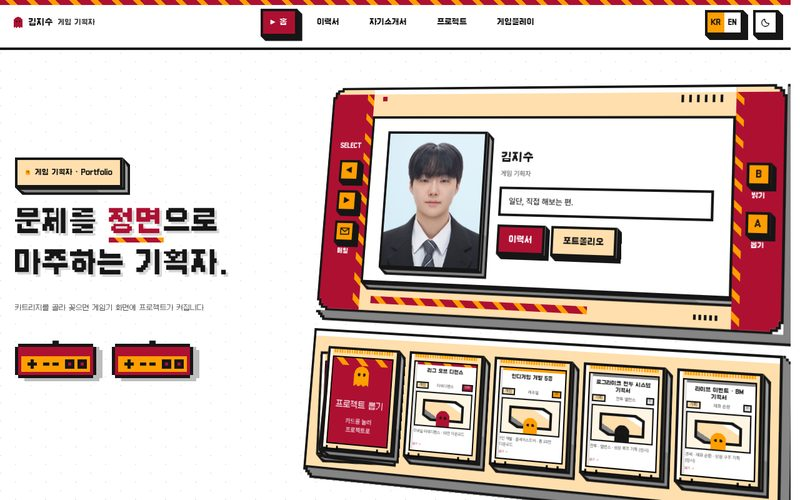
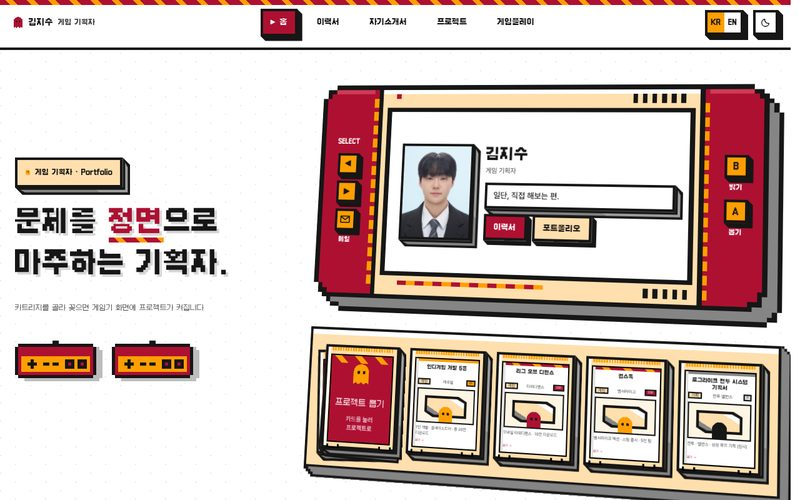
② 도트 · ⑨ 크라프트 · ⑩ 스테이지 게임기를 SVG 그림 한 장으로 다시 그림
"그림이 깨져 있고 조잡하다 · 뚱하다 · 모서리 외곽선이 끊긴다"는 평에 따라:
- 몸통을 상자 조각(셸 · 손잡이 · 화면 테 · 두께 조각) 대신 SVG 그림 한 장으로(assets/js/themes/fc-body.js).
  도트 두 안은 10단위 칸 격자에 칠한 뒤 외곽선을 '몸통 ∪ 두께' 실루엣 가장자리로 계산 → 계단 모서리에서도 선이 끊기지 않음.
  크라프트는 2색 평면 벡터(둥근 몸통 · 진홍 손잡이 면 · 진홍 화면 테).
- 비율을 1000×500 으로 날씬하게, 기울기를 조금 줄임(rotateX 5 · rotateY -9 · rotateZ 2).
- 손잡이 · 화면 자리는 판(.fcs-rig)을 크기 기준(container)으로 cqw 에 맞춰 그림과 정확히 겹침,
  화면 속 내용 · 꽂은 뒤 개요 화면도 cqw 로 줄여 액정 밖으로 넘치지 않게.
- 900px 미만은 기존 세로 휴대기 그대로.
6개 페이지 × 라이트/다크 × 3폭 오류·넘침 없음, 카트리지 꽂기 → 개요 정상.

Claude-Session: https://claude.ai/code/session_01FvKYnfXZMVorzgeM1iQfv5

diff --git a/assets/js/themes/fc-body.js b/assets/js/themes/fc-body.js
@@ -1,0 +1,157 @@
+/* ============================================================================
+   fc-body.js — 기울인 구도 시안의 게임기 '그림' (도트 · 크라프트 · 스테이지 안이 함께 씀)
+   ----------------------------------------------------------------------------
+   예전에는 게임기 몸통을 상자 여러 개(셸 · 손잡이 · 화면 테 · 두께 조각)로 쌓아 그렸는데,
+   판을 기울이면 조각마다 계단 모서리가 따로 틀어져 깨져 보였습니다. 이제 몸통은 SVG 그림 한 장
+   (viewBox 1000 × 500)이고, 버튼 · 화면 속 내용 · 꽂기 연출(각 안의 JS)은 그 위에 그대로 얹힙니다.
+     · 그림은 .hero.fc-console 맨 앞에 붙고(aria-hidden, 클릭 안 받음), 900px 이상에서만 보입니다
+       (좁은 화면은 각 안의 세로 휴대기 CSS 그대로).
+     · 손잡이 · 화면 자리는 각 안의 CSS 가 같은 숫자(cqw)로 맞춥니다 — 그림 1000 단위 = 판 폭 100cqw.
+       크라프트: 손잡이 0–130 · 870–1000, 화면 166–834 × 56–444
+       도트·스테이지: 몸통 0–970 × 0–470(+ 오른쪽·아래 두께), 손잡이 0–130 · 840–970, 화면 160–810 × 60–410
+   SKINS 에 든 시안일 때만 동작하고, [data-slot="main"] 이 다시 그려지면 다시 붙습니다.
+   ========================================================================== */
+(function () {
+  'use strict';
+  if (window.__portfolioFcBody) return;
+  window.__portfolioFcBody = true;
+  var NS = 'http://www.w3.org/2000/svg';
+
+  function rect(x, y, w, h, c, extra) {
+    return '<rect x="' + x + '" y="' + y + '" width="' + w + '" height="' + h + '" fill="' + c + '"' + (extra || '') + '/>';
+  }
+  /* 계단 모서리 사각형 — prof = 위에서부터 한 줄씩 들여 쓸 칸 수(칸 = u) */
+  function steps(x, y, w, h, u, prof, c) {
+    var out = '', n = prof.length, i, d;
+    for (i = 0; i < n; i++) {
+      d = prof[i] * u;
+      out += rect(x + d, y + i * u, w - 2 * d, u, c) + rect(x + d, y + h - (i + 1) * u, w - 2 * d, u, c);
+    }
+    return out + rect(x, y + n * u, w, h - 2 * n * u, c);
+  }
+
+  /* ── 도트 그림 엔진 ─────────────────────────────────────────────────────
+     10단위 = 한 칸, 100 × 50 칸 격자에 칸마다 색을 한 번씩 칠한 뒤 가로로 이어진 같은 색을 한 줄 rect 로 냅니다.
+     외곽선은 '몸통 ∪ 두께' 실루엣의 가장자리 칸으로 계산해 칠하므로, 계단 모서리에서도 선이 끊기지 않습니다.
+     몸통 = 97 × 47 칸(0–96 · 0–46), 모서리 계단 [3,1,1], 두께 = 오른쪽 아래로 d 칸. */
+  function pixelArt(o) {
+    var W = 100, H = 50, BW = 97, BH = 47, PROF = [3, 1, 1], g = [], x, y, i;
+    for (y = 0; y < H; y++) { g.push([]); for (x = 0; x < W; x++) g[y].push(null); }
+    function inBody(cx, cy) {
+      if (cx < 0 || cy < 0 || cx >= BW || cy >= BH) return false;
+      var row = Math.min(cy, BH - 1 - cy);
+      return row >= PROF.length || (cx >= PROF[row] && cx < BW - PROF[row]);
+    }
+    function inAll(cx, cy) {
+      for (var k = 0; k <= o.depth; k++) if (inBody(cx - k, cy - k)) return true;
+      return false;
+    }
+    /* 칠하기: 몸통 안쪽 칸에만(실루엣을 넘지 않음) */
+    function fill(x0, y0, w, h, c) {
+      for (var yy = y0; yy < y0 + h; yy++) for (var xx = x0; xx < x0 + w; xx++) if (inBody(xx, yy) && g[yy]) g[yy][xx] = c;
+    }
+    for (y = 0; y < H; y++) for (x = 0; x < W; x++) if (inAll(x, y) && !inBody(x, y)) g[y][x] = o.side;
+    o.paint(fill);
+    /* 외곽선: 실루엣 가장자리 + 앞면과 두께가 맞닿는 가장자리 */
+    var out = function (cx, cy) { return !inAll(cx, cy); };
+    for (y = 0; y < H; y++) for (x = 0; x < W; x++) {
+      if (!inAll(x, y)) continue;
+      var edge = out(x - 1, y) || out(x + 1, y) || out(x, y - 1) || out(x, y + 1);
+      var seam = inBody(x, y) && (!inBody(x + 1, y) || !inBody(x, y + 1) || !inBody(x + 1, y + 1));
+      if (edge || seam) g[y][x] = o.line;
+    }
+    var s = '';
+    for (y = 0; y < H; y++) {
+      for (x = 0; x < W;) {
+        var c = g[y][x];
+        if (!c) { x++; continue; }
+        for (i = x + 1; i < W && g[y][i] === c; i++) {}
+        s += rect(x * 10, y * 10, (i - x) * 10, 10, c);
+        x = i;
+      }
+    }
+    return '<svg class="fcb-art" viewBox="0 0 1000 500" preserveAspectRatio="none" shape-rendering="crispEdges" aria-hidden="true" focusable="false">' + s + '</svg>';
+  }
+
+  /* ── ② 도트: 흰 바탕 아이소 도트 — 검은 한 칸 테, 크림 몸통, 진홍 손잡이 + 주황 사선, 회색 두께 ── */
+  function dotArt() {
+    var K = '#161616', CR = '#ffdfad', RD = '#ae1032', RH = '#d23a55', OR = '#ff9e00', WH = '#ffffff';
+    return pixelArt({ depth: 3, line: K, side: '#858585', paint: function (f) {
+      f(0, 0, 97, 47, CR);
+      f(3, 1, 91, 1, WH);                                   /* 윗면 하이라이트 */
+      f(0, 0, 13, 47, RD); f(84, 0, 13, 47, RD);            /* 손잡이 */
+      f(2, 1, 10, 1, RH); f(85, 1, 10, 1, RH);
+      for (var y = 3; y < 44; y += 3) { f(12, y, 1, 2, OR); f(84, y + 1, 1, 2, OR); }   /* 화면 쪽 주황 사선 띠 */
+      f(13, 0, 1, 47, K); f(83, 0, 1, 47, K);               /* 손잡이 경계 */
+      f(15, 5, 67, 37, K); f(16, 6, 65, 35, WH);           /* 화면 테 + 액정 */
+      f(17, 2, 1, 1, RD);                                   /* 전원등 */
+      for (var i = 0; i < 6; i++) f(69 + i * 2, 2, 1, 2, K); /* 통풍구 */
+      for (i = 0; i < 16; i++) f(19 + i * 2, 43, 2, 1, i % 2 ? OR : RD);   /* 아랫 베젤 사선 띠 */
+      for (i = 0; i < 5; i++) f(72 + i * 2, 43, 1, 2, K);   /* 스피커 */
+    } });
+  }
+
+  /* ── ⑩ 스테이지: 8비트 — 남색 몸통, 빨강 손잡이(밝은 · 어두운 두 단계), 주황 선, 크림 액정 ── */
+  function levelArt() {
+    var K = '#10131f', NV = '#2b3150', NV2 = '#3a4270', RD = '#c4243a', RH = '#ea5a5a', RS = '#8e1426', OR = '#fca044', CR = '#fff6dd', CS = '#e3c990';
+    return pixelArt({ depth: 2, line: K, side: '#1a1e33', paint: function (f) {
+      f(0, 0, 97, 47, NV);
+      f(3, 1, 91, 1, NV2);                                  /* 윗면 밝은 줄 */
+      f(0, 0, 13, 47, RD); f(84, 0, 13, 47, RD);            /* 손잡이 */
+      f(1, 3, 1, 41, RH); f(3, 1, 9, 1, RH); f(85, 1, 9, 1, RH);
+      f(11, 2, 1, 43, RS); f(95, 3, 1, 41, RS);
+      f(13, 0, 1, 47, OR); f(83, 0, 1, 47, OR);             /* 화면 쪽 주황 선 */
+      f(15, 5, 67, 37, K); f(16, 6, 65, 35, CR); f(16, 6, 65, 1, CS); f(16, 7, 1, 34, CS);   /* 화면 */
+      f(17, 2, 1, 1, '#00c84a'); f(18, 2, 1, 1, K);         /* 전원등 */
+      f(44, 2, 1, 1, '#6b7290'); f(52, 2, 1, 1, '#6b7290'); /* 나사 */
+      for (var i = 0; i < 6; i++) f(70 + i * 2, 43, 1, 2, K);   /* 스피커 */
+    } });
+  }
+
+  /* ── ⑨ 크라프트: 기념 포스터의 2색 평면 — 크림 몸통, 진홍 손잡이 면, 진홍 화면 테 ── */
+  function kraftArt() {
+    var CR = '#f5ebd6', LIP = '#e5cda8', RD = '#a3203a', SC = '#fffaf0';
+    var s = '<defs><clipPath id="fcb-k-body"><rect x="0" y="0" width="1000" height="500" rx="96"/></clipPath></defs>';
+    s += '<rect x="0" y="0" width="1000" height="500" rx="96" fill="' + CR + '"/>';
+    s += '<g clip-path="url(#fcb-k-body)">' +
+      '<rect x="0" y="480" width="1000" height="20" fill="' + LIP + '"/>' +            /* 아래 두께 한 줄 */
+      '<rect x="0" y="0" width="130" height="500" fill="' + RD + '"/>' +
+      '<rect x="870" y="0" width="130" height="500" fill="' + RD + '"/>' +
+      '</g>';
+    s += '<rect x="150" y="40" width="700" height="420" rx="30" fill="' + RD + '"/>';
+    s += '<rect x="166" y="56" width="668" height="388" rx="18" fill="' + SC + '"/>';
+    s += '<circle cx="186" cy="20" r="6" fill="' + RD + '"/>';                                  /* 전원등 */
+    var i;
+    for (i = 0; i < 5; i++) s += '<circle cx="' + (742 + i * 18) + '" cy="474" r="4.5" fill="' + RD + '"/>';
+    return '<svg class="fcb-art" viewBox="0 0 1000 500" preserveAspectRatio="none" aria-hidden="true" focusable="false">' + s + '</svg>';
+  }
+
+  var ART = { 'pixel-fc-dot': dotArt, 'pixel-fc-level': levelArt, 'pixel-fc-kraft': kraftArt };
+
+  function skin() { return document.documentElement.getAttribute('data-skin'); }
+  function paint() {
+    var draw = ART[skin()];
+    Array.prototype.forEach.call(document.querySelectorAll('.fcb-art'), function (el) {
+      if (!draw || el.getAttribute('data-for') !== skin()) el.parentNode.removeChild(el);
+    });
+    if (!draw) return;
+    Array.prototype.forEach.call(document.querySelectorAll('.fcs-rig > .hero'), function (hero) {
+      if (hero.querySelector(':scope > .fcb-art')) return;
+      var box = document.createElement('div');
+      box.innerHTML = draw();
+      var svg = box.firstChild;
+      svg.setAttribute('data-for', skin());
+      hero.insertBefore(svg, hero.firstChild);
+    });
+  }
+  function start() {
+    paint();
+    if (!window.MutationObserver) return;
+    var main = document.querySelector('[data-slot="main"]');
+    var queued = false;
+    var later = function () { if (queued) return; queued = true; requestAnimationFrame(function () { queued = false; paint(); }); };
+    if (main) new MutationObserver(later).observe(main, { childList: true, subtree: true });
+    new MutationObserver(later).observe(document.documentElement, { attributes: true, attributeFilter: ['data-skin'] });
+  }
+  if (document.readyState === 'loading') document.addEventListener('DOMContentLoaded', start); else start();
+})();

diff --git a/assets/css/themes/pixel-fc-dot.css b/assets/css/themes/pixel-fc-dot.css
@@ -1005,3 +1005,60 @@
 :root[data-skin="pixel-fc-dot"] .nav__link:hover { background: var(--dot-cream); border-color: #161616; }
 :root[data-skin="pixel-fc-dot"] .nav__link.is-active { background: var(--dot-red); color: #fff; border-color: #161616; }
 :root[data-skin="pixel-fc-dot"] .nav__link.is-active > .fcd-volume { display: block; }
+
+/* ── 6차: 게임기 몸통 = SVG 그림 한 장 (assets/js/themes/fc-body.js) ─────────────
+   상자 여러 개를 쌓아 그린 몸통은 기울이면 조각마다 계단 모서리가 틀어져 깨져 보였습니다.
+   900px 이상에서는 그림이 몸통을 맡고, 아래 규칙은 손잡이·화면 자리를 그림과 같은 숫자에 맞춥니다
+   (그림 1000 단위 = 판 폭 100cqw — 판 .fcs-rig 를 크기 기준(container)으로 씁니다).
+   기울기도 조금 줄였습니다(날씬한 비율 + 덜 비틀린 원근). */
+[data-skin="pixel-fc-dot"] .fcb-art { display: none; }
+@media (min-width: 900px) {
+  :root[data-skin="pixel-fc-dot"] .fcs-rig { container-type: inline-size; transform: perspective(1400px) rotateX(5deg) rotateY(-9deg) rotateZ(2deg); }
+  :root[data-skin="pixel-fc-dot"] .fcs-rig > .hero.fc-console {
+    --fc-h: 50cqw; height: 50cqw; min-height: 0; padding: 0 3cqw 3cqw 0;
+    grid-template-columns: 13cqw minmax(0, 1fr) 13cqw;
+    background: none; border: 0; border-radius: 0; box-shadow: none; clip-path: none; overflow: visible;
+  }
+  :root[data-skin="pixel-fc-dot"] .fcs-rig > .hero.fc-console::before { display: none; }
+  :root[data-skin="pixel-fc-dot"] .fcs-rig > .hero.fc-console > :is(.fcd-shell, .fcd-volume, .fcc-hardware) { display: none; }
+  :root[data-skin="pixel-fc-dot"] .fcs-rig > .hero > .fcb-art { display: block; position: absolute; inset: 0; width: 100%; height: 100%; z-index: 0; pointer-events: none; overflow: visible; }
+  :root[data-skin="pixel-fc-dot"] .fcs-rig > .hero.fc-console > .fc-grip {
+    position: relative; z-index: 1; background: none; border: 0; border-radius: 0; clip-path: none; box-shadow: none; padding: 0; gap: 1.4cqw;
+  }
+  :root[data-skin="pixel-fc-dot"] .fcs-rig > .hero.fc-console > .fc-grip::before,
+  :root[data-skin="pixel-fc-dot"] .fcs-rig > .hero.fc-console > .fc-grip::after { display: none; }
+  :root[data-skin="pixel-fc-dot"] .fcs-rig > .hero.fc-console > .wrap {
+    position: relative; z-index: 1; min-height: 0; margin: 6cqw 3cqw; padding: 2.2cqw 2.8cqw;
+    background: transparent; border: 0; border-radius: 0; box-shadow: none; overflow: visible;
+  }
+  :root[data-skin="pixel-fc-dot"] .fcs-rig > .hero.fc-console > .wrap > .fc-boot { border-radius: 0; }
+  :root[data-skin="pixel-fc-dot"] .fcs-rig .hero__grid { gap: 2.8cqw; }
+  :root[data-skin="pixel-fc-dot"] .fcs-rig .hero .portrait { width: 15cqw; }
+  :root[data-skin="pixel-fc-dot"] .fcs-rig .fcs-info .portrait__nm { font-size: 3.1cqw; line-height: 1.25; }
+  :root[data-skin="pixel-fc-dot"] .fcs-rig .fcs-info .portrait__cap { margin-bottom: 1.2cqw; gap: .4cqw; }
+  :root[data-skin="pixel-fc-dot"] .fcs-rig .fcs-info .quip { font-size: 1.75cqw; line-height: 1.6; padding: .9cqw 1.4cqw; margin-bottom: 1cqw; }
+  :root[data-skin="pixel-fc-dot"] .fcs-rig .fcs-info .btn-row { margin-top: 1.2cqw; gap: 1.2cqw; }
+  :root[data-skin="pixel-fc-dot"] .fcs-rig .fcs-info .btn { min-height: 0; padding: .9cqw 1.8cqw; font-size: 1.6cqw; }
+  :root[data-skin="pixel-fc-dot"] .fcs-rig > .draw { margin-top: 3.6cqw; }
+}
+@media (min-width: 900px) {
+  :root[data-skin="pixel-fc-dot"] .fcs-rig .fcs-info, :root[data-skin="pixel-fc-dot"] .fcs-rig .fcs-info > * { min-width: 0; max-width: 100%; box-sizing: border-box; }
+  :root[data-skin="pixel-fc-dot"] .fcs-rig .fcs-info .quip { width: 100%; overflow-wrap: anywhere; }
+}
+@media (min-width: 900px) { :root[data-skin="pixel-fc-dot"] .fcs-rig > .hero.fc-console > .wrap { width: auto; max-width: none; } }
+/* 한마디 줄의 두께 면이 화면 전체로 번지지 않게 — 기준점을 한마디 자신으로 */
+:root[data-skin="pixel-fc-dot"] .fcs-info .quip { position: relative; }
+/* 꽂은 뒤 개요 화면도 그림 속 액정 크기(cqw)에 맞춰 — 큰 제목이 화면을 다 먹지 않게 */
+@media (min-width: 900px) {
+  :root[data-skin="pixel-fc-dot"] .fcs-rig .fc-boot { padding: 1.8cqw 2.4cqw; align-items: center; overflow: hidden; }
+  :root[data-skin="pixel-fc-dot"] .fcs-rig .fc-ov { grid-template-columns: 22cqw minmax(0, 1fr); gap: 2.4cqw; align-items: center; width: 100%; }
+  :root[data-skin="pixel-fc-dot"] .fcs-rig .fc-ov__art { width: 100%; max-width: none; }
+  :root[data-skin="pixel-fc-dot"] .fcs-rig .fc-ov__meta { font-size: 1.25cqw; gap: .8cqw; }
+  :root[data-skin="pixel-fc-dot"] .fcs-rig .fc-ov__t { margin: .9cqw 0 .5cqw; font-size: 3cqw; line-height: 1.2; word-break: keep-all; }
+  :root[data-skin="pixel-fc-dot"] .fcs-rig .fc-ov__sub { font-size: 1.5cqw; line-height: 1.45; }
+  :root[data-skin="pixel-fc-dot"] .fcs-rig .fc-ov__rows { margin-top: 1.2cqw; gap: .4cqw 1.2cqw; font-size: 1.35cqw; }
+  :root[data-skin="pixel-fc-dot"] .fcs-rig .fc-ov__k { font-size: 1.15cqw; }
+  :root[data-skin="pixel-fc-dot"] .fcs-rig .fc-ov__q { margin-top: 1cqw; padding: .7cqw 1cqw; font-size: 1.3cqw; }
+  :root[data-skin="pixel-fc-dot"] .fcs-rig .fc-ov__btns { margin-top: 1.4cqw; gap: 1cqw; }
+  :root[data-skin="pixel-fc-dot"] .fcs-rig .fc-ov__btn { min-height: 0; padding: .8cqw 1.6cqw; font-size: 1.4cqw; }
+}

diff --git a/assets/css/themes/pixel-fc-level.css b/assets/css/themes/pixel-fc-level.css
@@ -853,3 +853,58 @@
 @keyframes level-coin { 50% { transform: translateY(-8px); } }
 @media (prefers-reduced-motion: reduce) { [data-skin="pixel-fc-level"] .level-platform em { animation: none; } }
 @media (max-width: 899px) { [data-skin="pixel-fc-level"] .level-platform { display: none; } }
+
+/* ── 6차: 게임기 몸통 = SVG 그림 한 장 (assets/js/themes/fc-body.js) ─────────────
+   상자 여러 개를 쌓아 그린 몸통은 기울이면 조각마다 계단 모서리가 틀어져 깨져 보였습니다.
+   900px 이상에서는 그림이 몸통을 맡고, 아래 규칙은 손잡이·화면 자리를 그림과 같은 숫자에 맞춥니다
+   (그림 1000 단위 = 판 폭 100cqw — 판 .fcs-rig 를 크기 기준(container)으로 씁니다).
+   기울기도 조금 줄였습니다(날씬한 비율 + 덜 비틀린 원근). */
+[data-skin="pixel-fc-level"] .fcb-art { display: none; }
+@media (min-width: 900px) {
+  :root[data-skin="pixel-fc-level"] .fcs-rig { container-type: inline-size; transform: perspective(1400px) rotateX(5deg) rotateY(-9deg) rotateZ(2deg); }
+  :root[data-skin="pixel-fc-level"] .fcs-rig > .hero.fc-console {
+    --fc-h: 50cqw; height: 50cqw; min-height: 0; padding: 0 3cqw 3cqw 0;
+    grid-template-columns: 13cqw minmax(0, 1fr) 13cqw;
+    background: none; border: 0; border-radius: 0; box-shadow: none; clip-path: none; overflow: visible;
+  }
+  :root[data-skin="pixel-fc-level"] .fcs-rig > .hero.fc-console::before { display: none; }
+  :root[data-skin="pixel-fc-level"] .fcs-rig > .hero.fc-console > :is(.fcd-shell, .fcd-volume, .fcc-hardware) { display: none; }
+  :root[data-skin="pixel-fc-level"] .fcs-rig > .hero > .fcb-art { display: block; position: absolute; inset: 0; width: 100%; height: 100%; z-index: 0; pointer-events: none; overflow: visible; }
+  :root[data-skin="pixel-fc-level"] .fcs-rig > .hero.fc-console > .fc-grip {
+    position: relative; z-index: 1; background: none; border: 0; border-radius: 0; clip-path: none; box-shadow: none; padding: 0; gap: 1.4cqw;
+  }
+  :root[data-skin="pixel-fc-level"] .fcs-rig > .hero.fc-console > .fc-grip::before,
+  :root[data-skin="pixel-fc-level"] .fcs-rig > .hero.fc-console > .fc-grip::after { display: none; }
+  :root[data-skin="pixel-fc-level"] .fcs-rig > .hero.fc-console > .wrap {
+    position: relative; z-index: 1; min-height: 0; margin: 6cqw 3cqw; padding: 2.2cqw 2.8cqw;
+    background: transparent; border: 0; border-radius: 0; box-shadow: none; overflow: visible;
+  }
+  :root[data-skin="pixel-fc-level"] .fcs-rig > .hero.fc-console > .wrap > .fc-boot { border-radius: 0; }
+  :root[data-skin="pixel-fc-level"] .fcs-rig .hero__grid { gap: 2.8cqw; }
+  :root[data-skin="pixel-fc-level"] .fcs-rig .hero .portrait { width: 15cqw; }
+  :root[data-skin="pixel-fc-level"] .fcs-rig .fcs-info .portrait__nm { font-size: 3.1cqw; line-height: 1.25; }
+  :root[data-skin="pixel-fc-level"] .fcs-rig .fcs-info .portrait__cap { margin-bottom: 1.2cqw; gap: .4cqw; }
+  :root[data-skin="pixel-fc-level"] .fcs-rig .fcs-info .quip { font-size: 1.75cqw; line-height: 1.6; padding: .9cqw 1.4cqw; margin-bottom: 1cqw; }
+  :root[data-skin="pixel-fc-level"] .fcs-rig .fcs-info .btn-row { margin-top: 1.2cqw; gap: 1.2cqw; }
+  :root[data-skin="pixel-fc-level"] .fcs-rig .fcs-info .btn { min-height: 0; padding: .9cqw 1.8cqw; font-size: 1.6cqw; }
+  :root[data-skin="pixel-fc-level"] .fcs-rig > .draw { margin-top: 3.6cqw; }
+}
+@media (min-width: 900px) {
+  :root[data-skin="pixel-fc-level"] .fcs-rig .fcs-info, :root[data-skin="pixel-fc-level"] .fcs-rig .fcs-info > * { min-width: 0; max-width: 100%; box-sizing: border-box; }
+  :root[data-skin="pixel-fc-level"] .fcs-rig .fcs-info .quip { width: 100%; overflow-wrap: anywhere; }
+}
+@media (min-width: 900px) { :root[data-skin="pixel-fc-level"] .fcs-rig > .hero.fc-console > .wrap { width: auto; max-width: none; } }
+/* 꽂은 뒤 개요 화면도 그림 속 액정 크기(cqw)에 맞춰 — 큰 제목이 화면을 다 먹지 않게 */
+@media (min-width: 900px) {
+  :root[data-skin="pixel-fc-level"] .fcs-rig .fc-boot { padding: 1.8cqw 2.4cqw; align-items: center; overflow: hidden; }
+  :root[data-skin="pixel-fc-level"] .fcs-rig .fc-ov { grid-template-columns: 22cqw minmax(0, 1fr); gap: 2.4cqw; align-items: center; width: 100%; }
+  :root[data-skin="pixel-fc-level"] .fcs-rig .fc-ov__art { width: 100%; max-width: none; }
+  :root[data-skin="pixel-fc-level"] .fcs-rig .fc-ov__meta { font-size: 1.25cqw; gap: .8cqw; }
+  :root[data-skin="pixel-fc-level"] .fcs-rig .fc-ov__t { margin: .9cqw 0 .5cqw; font-size: 3cqw; line-height: 1.2; word-break: keep-all; }
+  :root[data-skin="pixel-fc-level"] .fcs-rig .fc-ov__sub { font-size: 1.5cqw; line-height: 1.45; }
+  :root[data-skin="pixel-fc-level"] .fcs-rig .fc-ov__rows { margin-top: 1.2cqw; gap: .4cqw 1.2cqw; font-size: 1.35cqw; }
+  :root[data-skin="pixel-fc-level"] .fcs-rig .fc-ov__k { font-size: 1.15cqw; }
+  :root[data-skin="pixel-fc-level"] .fcs-rig .fc-ov__q { margin-top: 1cqw; padding: .7cqw 1cqw; font-size: 1.3cqw; }
+  :root[data-skin="pixel-fc-level"] .fcs-rig .fc-ov__btns { margin-top: 1.4cqw; gap: 1cqw; }
+  :root[data-skin="pixel-fc-level"] .fcs-rig .fc-ov__btn { min-height: 0; padding: .8cqw 1.6cqw; font-size: 1.4cqw; }
+}

diff --git a/assets/css/themes/pixel-fc-kraft.css b/assets/css/themes/pixel-fc-kraft.css
@@ -1153,3 +1153,58 @@
 
 /* 첫 화면 한 줄 설명: 작고 흐린 회색 → 본문 크기 · 진한 잉크 */
 :root[data-skin="pixel-fc-kraft"] .fcs-intro :is(.hero__sub, .fcs-caption) { font-size: 15px; line-height: 1.75; color: var(--text); max-width: 26em; }
+
+/* ── 6차: 게임기 몸통 = SVG 그림 한 장 (assets/js/themes/fc-body.js) ─────────────
+   상자 여러 개를 쌓아 그린 몸통은 기울이면 조각마다 계단 모서리가 틀어져 깨져 보였습니다.
+   900px 이상에서는 그림이 몸통을 맡고, 아래 규칙은 손잡이·화면 자리를 그림과 같은 숫자에 맞춥니다
+   (그림 1000 단위 = 판 폭 100cqw — 판 .fcs-rig 를 크기 기준(container)으로 씁니다).
+   기울기도 조금 줄였습니다(날씬한 비율 + 덜 비틀린 원근). */
+[data-skin="pixel-fc-kraft"] .fcb-art { display: none; }
+@media (min-width: 900px) {
+  :root[data-skin="pixel-fc-kraft"] .fcs-rig { container-type: inline-size; transform: perspective(1400px) rotateX(5deg) rotateY(-9deg) rotateZ(2deg); }
+  :root[data-skin="pixel-fc-kraft"] .fcs-rig > .hero.fc-console {
+    --fc-h: 50cqw; height: 50cqw; min-height: 0; padding: 0;
+    grid-template-columns: 13cqw minmax(0, 1fr) 13cqw;
+    background: none; border: 0; border-radius: 0; box-shadow: none; clip-path: none; overflow: visible;
+  }
+  :root[data-skin="pixel-fc-kraft"] .fcs-rig > .hero.fc-console::before { display: none; }
+  :root[data-skin="pixel-fc-kraft"] .fcs-rig > .hero.fc-console > :is(.fcd-shell, .fcd-volume, .fcc-hardware) { display: none; }
+  :root[data-skin="pixel-fc-kraft"] .fcs-rig > .hero > .fcb-art { display: block; position: absolute; inset: 0; width: 100%; height: 100%; z-index: 0; pointer-events: none; overflow: visible; }
+  :root[data-skin="pixel-fc-kraft"] .fcs-rig > .hero.fc-console > .fc-grip {
+    position: relative; z-index: 1; background: none; border: 0; border-radius: 0; clip-path: none; box-shadow: none; padding: 0; gap: 1.4cqw;
+  }
+  :root[data-skin="pixel-fc-kraft"] .fcs-rig > .hero.fc-console > .fc-grip::before,
+  :root[data-skin="pixel-fc-kraft"] .fcs-rig > .hero.fc-console > .fc-grip::after { display: none; }
+  :root[data-skin="pixel-fc-kraft"] .fcs-rig > .hero.fc-console > .wrap {
+    position: relative; z-index: 1; min-height: 0; margin: 5.6cqw 3.6cqw; padding: 2.2cqw 2.8cqw;
+    background: transparent; border: 0; border-radius: 1.8cqw; box-shadow: none; overflow: visible;
+  }
+  :root[data-skin="pixel-fc-kraft"] .fcs-rig > .hero.fc-console > .wrap > .fc-boot { border-radius: 1.8cqw; }
+  :root[data-skin="pixel-fc-kraft"] .fcs-rig .hero__grid { gap: 2.8cqw; }
+  :root[data-skin="pixel-fc-kraft"] .fcs-rig .hero .portrait { width: 15cqw; }
+  :root[data-skin="pixel-fc-kraft"] .fcs-rig .fcs-info .portrait__nm { font-size: 3.1cqw; line-height: 1.25; }
+  :root[data-skin="pixel-fc-kraft"] .fcs-rig .fcs-info .portrait__cap { margin-bottom: 1.2cqw; gap: .4cqw; }
+  :root[data-skin="pixel-fc-kraft"] .fcs-rig .fcs-info .quip { font-size: 1.75cqw; line-height: 1.6; padding: .9cqw 1.4cqw; margin-bottom: 1cqw; }
+  :root[data-skin="pixel-fc-kraft"] .fcs-rig .fcs-info .btn-row { margin-top: 1.2cqw; gap: 1.2cqw; }
+  :root[data-skin="pixel-fc-kraft"] .fcs-rig .fcs-info .btn { min-height: 0; padding: .9cqw 1.8cqw; font-size: 1.6cqw; }
+  :root[data-skin="pixel-fc-kraft"] .fcs-rig > .draw { margin-top: 3.6cqw; }
+}
+@media (min-width: 900px) {
+  :root[data-skin="pixel-fc-kraft"] .fcs-rig .fcs-info, :root[data-skin="pixel-fc-kraft"] .fcs-rig .fcs-info > * { min-width: 0; max-width: 100%; box-sizing: border-box; }
+  :root[data-skin="pixel-fc-kraft"] .fcs-rig .fcs-info .quip { width: 100%; overflow-wrap: anywhere; }
+}
+@media (min-width: 900px) { :root[data-skin="pixel-fc-kraft"] .fcs-rig > .hero.fc-console > .wrap { width: auto; max-width: none; } }
+/* 꽂은 뒤 개요 화면도 그림 속 액정 크기(cqw)에 맞춰 — 큰 제목이 화면을 다 먹지 않게 */
+@media (min-width: 900px) {
+  :root[data-skin="pixel-fc-kraft"] .fcs-rig .fc-boot { padding: 1.8cqw 2.4cqw; align-items: center; overflow: hidden; }
+  :root[data-skin="pixel-fc-kraft"] .fcs-rig .fc-ov { grid-template-columns: 22cqw minmax(0, 1fr); gap: 2.4cqw; align-items: center; width: 100%; }
+  :root[data-skin="pixel-fc-kraft"] .fcs-rig .fc-ov__art { width: 100%; max-width: none; }
+  :root[data-skin="pixel-fc-kraft"] .fcs-rig .fc-ov__meta { font-size: 1.25cqw; gap: .8cqw; }
+  :root[data-skin="pixel-fc-kraft"] .fcs-rig .fc-ov__t { margin: .9cqw 0 .5cqw; font-size: 3cqw; line-height: 1.2; word-break: keep-all; }
+  :root[data-skin="pixel-fc-kraft"] .fcs-rig .fc-ov__sub { font-size: 1.5cqw; line-height: 1.45; }
+  :root[data-skin="pixel-fc-kraft"] .fcs-rig .fc-ov__rows { margin-top: 1.2cqw; gap: .4cqw 1.2cqw; font-size: 1.35cqw; }
+  :root[data-skin="pixel-fc-kraft"] .fcs-rig .fc-ov__k { font-size: 1.15cqw; }
+  :root[data-skin="pixel-fc-kraft"] .fcs-rig .fc-ov__q { margin-top: 1cqw; padding: .7cqw 1cqw; font-size: 1.3cqw; }
+  :root[data-skin="pixel-fc-kraft"] .fcs-rig .fc-ov__btns { margin-top: 1.4cqw; gap: 1cqw; }
+  :root[data-skin="pixel-fc-kraft"] .fcs-rig .fc-ov__btn { min-height: 0; padding: .8cqw 1.6cqw; font-size: 1.4cqw; }
+}

diff --git a/assets/js/themes.js b/assets/js/themes.js
@@ -79,7 +79,7 @@
         { id: 'fc-dot', name: { ko: '패미컴 · 도트', en: 'Famicom · Dot' },
           desc: { ko: '참고 그림 ②. 아이소메트릭 도트 부품 — 회색 두께 면과 검은 4px 선, 진홍 띠 속 주황 사선 줄무늬, 큰 도트 번호 열로 나눈 부품 상자 절.',
                   en: 'Reference ②: isometric dot parts — grey depth faces and 4px black outlines, orange diagonal stripes on crimson bands, and sections laid out as part boxes with big pixel numbers.' },
-          scripts: ['js/themes/pixel-fc-dot.js', 'js/themes/fc-stage.js'],
+          scripts: ['js/themes/pixel-fc-dot.js', 'js/themes/fc-stage.js', 'js/themes/fc-body.js'],
           swatch: ['#ffffff', '#ffdca8', '#b0122e', '#f5a000'] },
         { id: 'fc-blueprint', name: { ko: '패미컴 · 설명서', en: 'Famicom · Manual' },
           desc: { ko: '참고 그림 ③. 제품 설명서·제도 도면 — 모눈 바탕, 치수선과 부품 번호, 문서 번호 머리줄, 번호 붙은 2단 설명서 배치와 사양표.',
@@ -118,13 +118,13 @@
         { id: 'fc-kraft', name: { ko: '패미컴 · 크라프트', en: 'Famicom · Kraft' },
           desc: { ko: '참고 그림 ⑨. 기념 포스터 — 크라프트지 바탕, 외곽선 없는 크림·진홍 2색 평면, 검은 케이블이 제목·게임기·절을 감싸 잇는 선로, 거대한 진홍 숫자.',
                   en: 'Reference ⑨: an anniversary poster — kraft paper, outline-free cream and crimson flats, a black cable route wrapping the title, console and sections, and giant crimson numbers.' },
-          scripts: ['js/themes/pixel-fc-kraft.js', 'js/themes/fc-stage.js'],
+          scripts: ['js/themes/pixel-fc-kraft.js', 'js/themes/fc-stage.js', 'js/themes/fc-body.js'],
           fonts: [G + 'Black+Han+Sans&family=Do+Hyeon'],
           swatch: ['#c9a678', '#f3ead6', '#a3203a', '#1d1d1b'] },
         { id: 'fc-level', name: { ko: '패미컴 · 스테이지', en: 'Famicom · Stage' },
           desc: { ko: '참고 그림 ⑩. 페이지 전체가 한 스테이지 — 게임 화면식 상단 메뉴(WORLD 1-1), 물음표 블록 위로 튀어나온 점수, 벽돌 판·땅 블록 지형.',
                   en: 'Reference ⑩: the whole page as one game level — a HUD-style top bar (WORLD 1-1), scores popping out of question blocks, brick panels and ground-block terrain.' },
-          scripts: ['js/themes/pixel-fc-level.js', 'js/themes/fc-stage.js'],
+          scripts: ['js/themes/pixel-fc-level.js', 'js/themes/fc-stage.js', 'js/themes/fc-body.js'],
           swatch: ['#5c94fc', '#c84c0c', '#fca044', '#00a800'] },
         { id: 'fc-8bit', name: { ko: '패미컴 · 도트 아트', en: 'Famicom · Pixel Art' },
           desc: { ko: '디자인 안 ②. 게임기부터 창 테두리·제목까지 전부 도트로 그린 8비트 화면. 계단식 모서리, 도트 그림자, 옛 게임 대화 상자.',

diff --git a/CLAUDE.md b/CLAUDE.md
@@ -49,6 +49,7 @@
 3D 픽셀(`pixel-fc-px3d`)은 자동 변환이 아니라 `tools/fc-pixel/sprites.py` 가 도트를 규칙대로 찍어 만든 **스프라이트**이고(입체는 그림 안 3/4 시점 — 도트가 깨지지 않게 이 안만 판을 CSS 로 기울이지 않음, 도트 한 칸 = 4px),
 복셀의 그림은 `tools/fc-pixel/capture-fc.js` → `render3d.py voxel` 로 만들고, 게임기는 화면 높이에 따라 크기가 바뀌므로 9조각 border-image 로 붙이며 붙이는 CSS(`pixel-fc-<안>-parts.css`)도 자동 생성됩니다. 시안 항목의 `scripts` 는 테마 공통 스크립트 뒤에 그 시안에서만 읽힙니다.
 `pixel-fc-icon`(픽셀 아이콘) · `pixel-fc-dot`(도트) · `pixel-fc-blueprint`(설명서) · `pixel-fc-flat`(플랫 일러스트) · `pixel-fc-ukiyo`(레트로 판화) · `pixel-fc-iso`(아이소) · `pixel-fc-line`(컬러 선화) · `pixel-fc-snes`(고해상 도트) · `pixel-fc-kraft`(크라프트) · `pixel-fc-level`(스테이지) 는 정돈 안을 복제해 **사용자가 준 참고 그림 한 장씩의 색·화풍**을 입힌 안입니다 — 구도(fc-stage.js 의 기울인 판)·패미컴 실루엣·빨강 중심 색·꽂기 동작은 그대로이고, 화풍은 첫 화면만이 아니라 메뉴·절·카드·표·푸터·하위 페이지까지 **사이트 전체의 디자인 규칙**으로 입힙니다(그림 속 소품을 그대로 붙이지 않음 · 상표/기존 게임 캐릭터 금지). 장식 DOM 은 각 안의 JS 가 시안 id 일 때만 붙입니다.
+이 중 `pixel-fc-dot` · `pixel-fc-kraft` · `pixel-fc-level` 은 900px 이상에서 게임기 몸통을 상자 조각 대신 **SVG 그림 한 장**(`assets/js/themes/fc-body.js`, viewBox 1000×500)으로 그립니다 — 손잡이·화면 자리는 각 안 CSS 가 같은 숫자(cqw, 판 `.fcs-rig` 가 크기 기준)로 맞추고, 도트 그림은 칸 격자에 칠한 뒤 외곽선을 실루엣 가장자리로 계산해 모서리에서 선이 끊기지 않게 합니다. 그림 숫자를 바꾸면 CSS 의 손잡이 폭(13cqw)·화면 여백도 함께 바꾸세요.
 `hud-launcher` 는 `assets/js/themes/hud.js` 로 상단 시계·하단 컨트롤러 바(Ⓐ 프로젝트 · Ⓑ 맨 위로 · Ⓨ 화면 모드)를 붙입니다.
 
 - `themes.js` 는 `<head>` 에서 `style.css` **바로 다음**에 읽습니다 (모든 페이지 + `projects/detail.html`).
